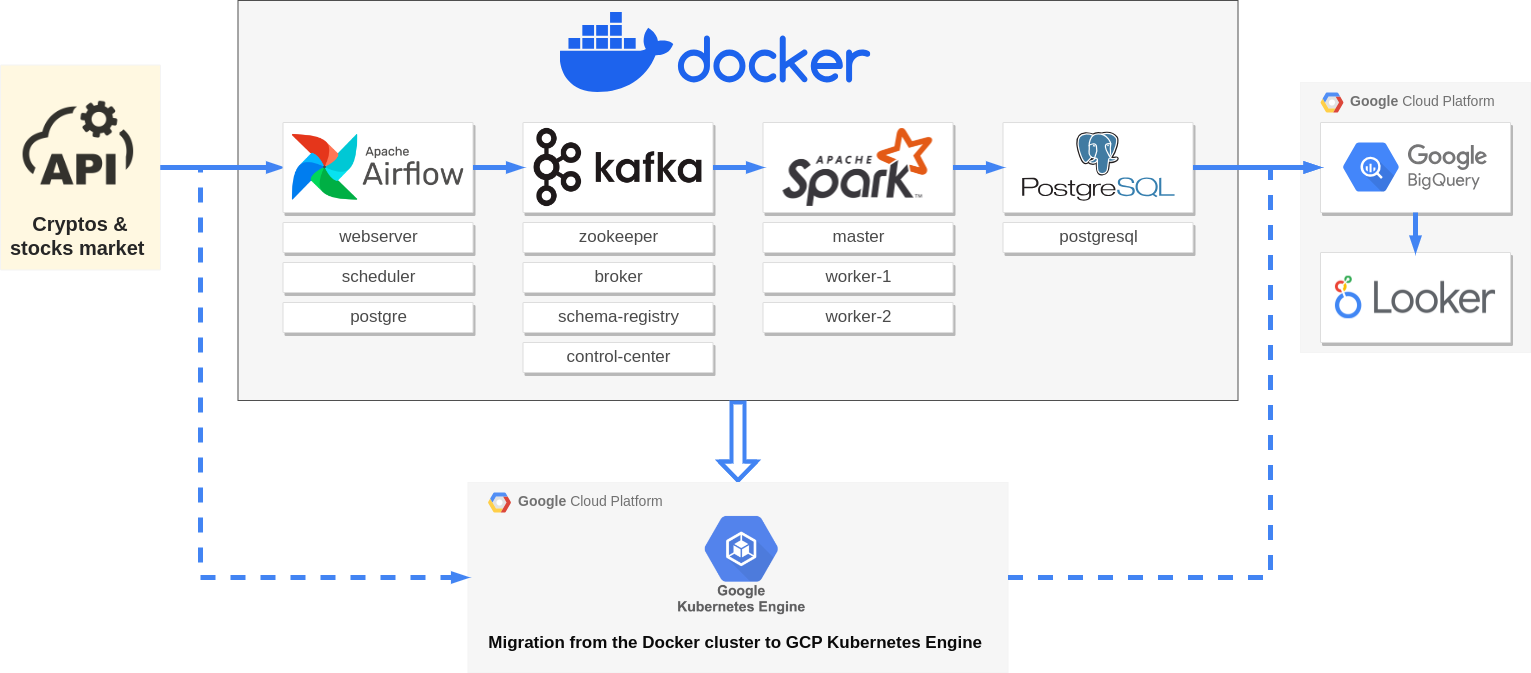
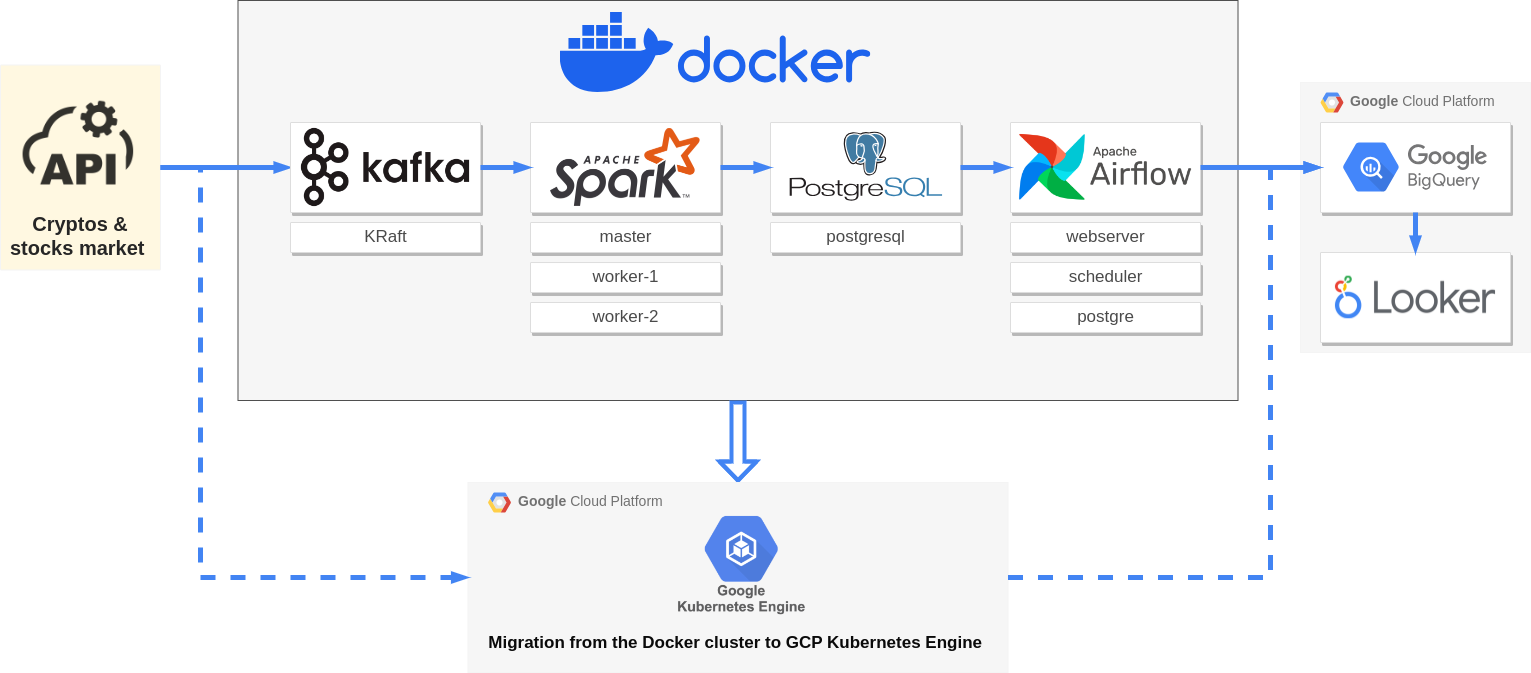
readme

diff --git a/README.md b/README.md
@@ -15,14 +15,17 @@ I am replicating and customizing the great project from [Dogukan Ulu](https://do
 
 I have chosen to use some anothers and latest images available on 2023-11-06 from [Docker Hub](https://hub.docker.com/) for the following services:
 
+<div style="display:flex; justify-content:center; width:100%">
 <table>
-<tr><th>service</th><th>image</th></tr>
-<tr><td>zookeeper</td><td>bitnami/kafka:3.6</td></tr>
-<tr><td>webserver<br>scheduler</td><td>apache/airflow:2.7.2-python3.10</td></tr>
-<tr><td>postgres</td><td>postgres:16</td></tr>
-<tr><td>spark-master<br>spark-worker-1<bt>spark-worker-2</td><td>bitnami/spark:3.5.0</td></tr>
-<tr><td>postgresql</td><td>bitnami/postgresql:16</td></tr>
+<tr><th>service</th><th>image</th><th></th></tr>
+<tr><td>KRaft</td><td>bitnami/kafka:3.6</td><td>Implementing the new KRaft mode : <a href="https://developer.confluent.io/learn/kraft/">Kafka Without ZooKeeper.</a><br><a href="https://hub.docker.com/r/bitnami/kafka">https://hub.docker.com/r/bitnami/kafka</a></td></tr>
+<tr><td>webserver<br>scheduler</td><td>apache/airflow:2.7.2-python3.10</td><td><a href="https://airflow.apache.org/docs/docker-stack/index.html">https://airflow.apache.org/docs/docker-stack/index.html</a></tr>
+<tr><td>postgres</td><td>postgres:16</td><td><a href="https://hub.docker.com/_/postgres">https://hub.docker.com/_/postgres</a></td>
+<tr><td>spark-master<br>spark-worker-1<br>spark-worker-2</td><td>bitnami/spark:3.5.0</td><td><a href="https://hub.docker.com/r/bitnami/spark">https://hub.docker.com/r/bitnami/spark</td></tr>
+<tr><td>postgresql</td><td>bitnami/postgresql:16</td><td><a href="https://hub.docker.com/r/bitnami/spark">https://hub.docker.com/r/bitnami/postgresql</td></tr>
 </table>
+</div>
+
 
 
 Cassandra's driver doesn't support spark 3.5.0 yet, i'll try to replace it by postgresql or another database.
